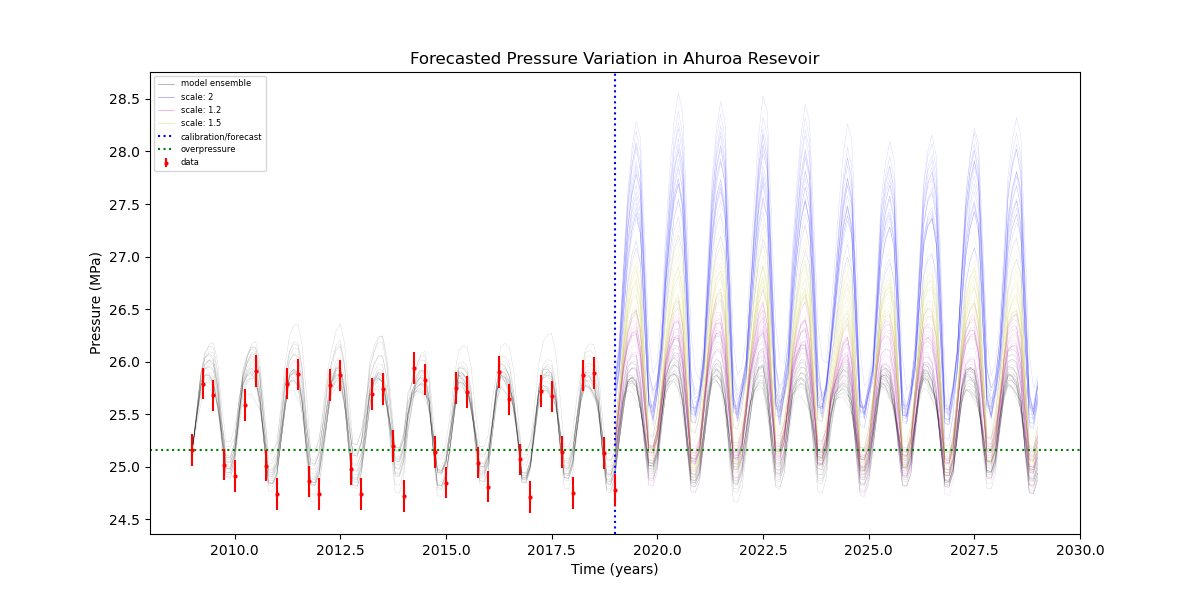
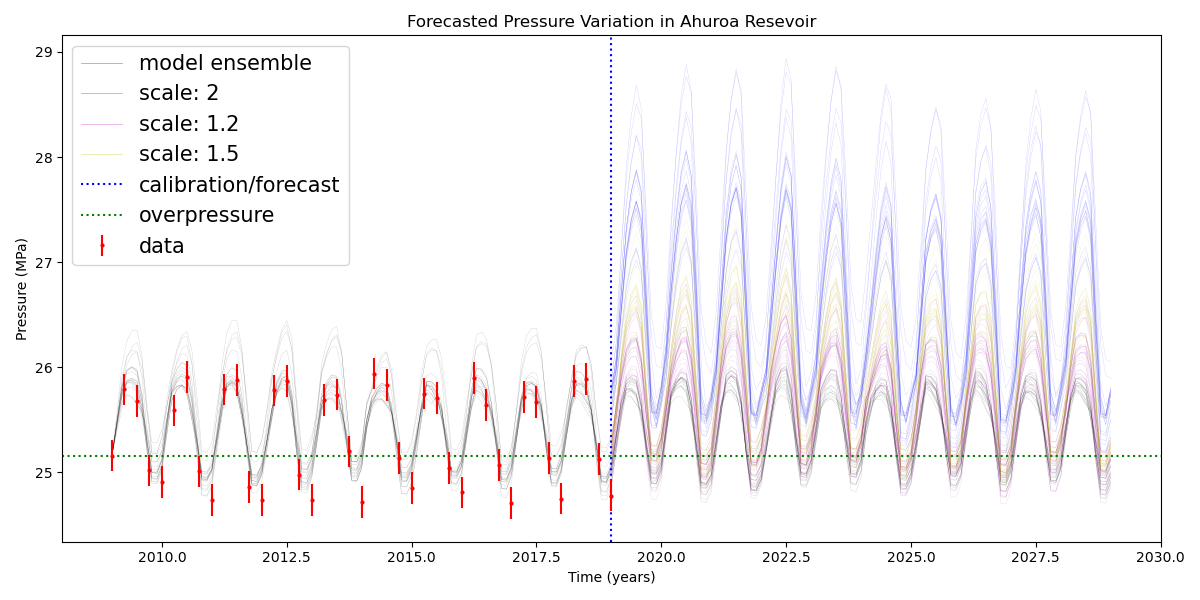
Added docstrings and comments

diff --git a/Model_uncertainty.py b/Model_uncertainty.py
@@ -129,7 +129,7 @@ def model_ensemble(samples):
 	ax.set_xlabel('Time (years)')
 	ax.set_ylabel('Pressure (MPa)')
 	ax.set_title(' Pressure Variation in Ahuroa Resevoir')
-	ax.legend(loc = 'upper left', prop={'size': 6})
+	ax.legend(loc = 'upper left', prop={'size': 15})
 	plt.savefig('Uncertainty plot 1')
 	plt.show()
 
@@ -174,7 +174,7 @@ def model_ensemble_with_forecasts(samples):
 	ax1.set_title('Forecasted Pressure Variation in Ahuroa Resevoir')
 	ax1.set_xlabel('Time (years)')
 	ax1.set_ylabel('Pressure (MPa)')
-	ax1.legend(prop={'size': 6})
+	ax1.legend(prop={'size': 15})
 
 	plt.savefig('Uncertainty plot 2')
 	plt.show()
@@ -276,7 +276,7 @@ def leakage_forecasting(samples):
 	ax2.set_title('What-if Scenarios With Uncertainty')
 	ax2.set_xlabel('Time (years)')
 	ax2.set_ylabel('Pressure (MPa)')
-	ax2.legend(prop={'size': 6})
+	ax2.legend(prop={'size': 15})
 
 	plt.savefig('Uncertainty plot 3')
 	plt.show()
